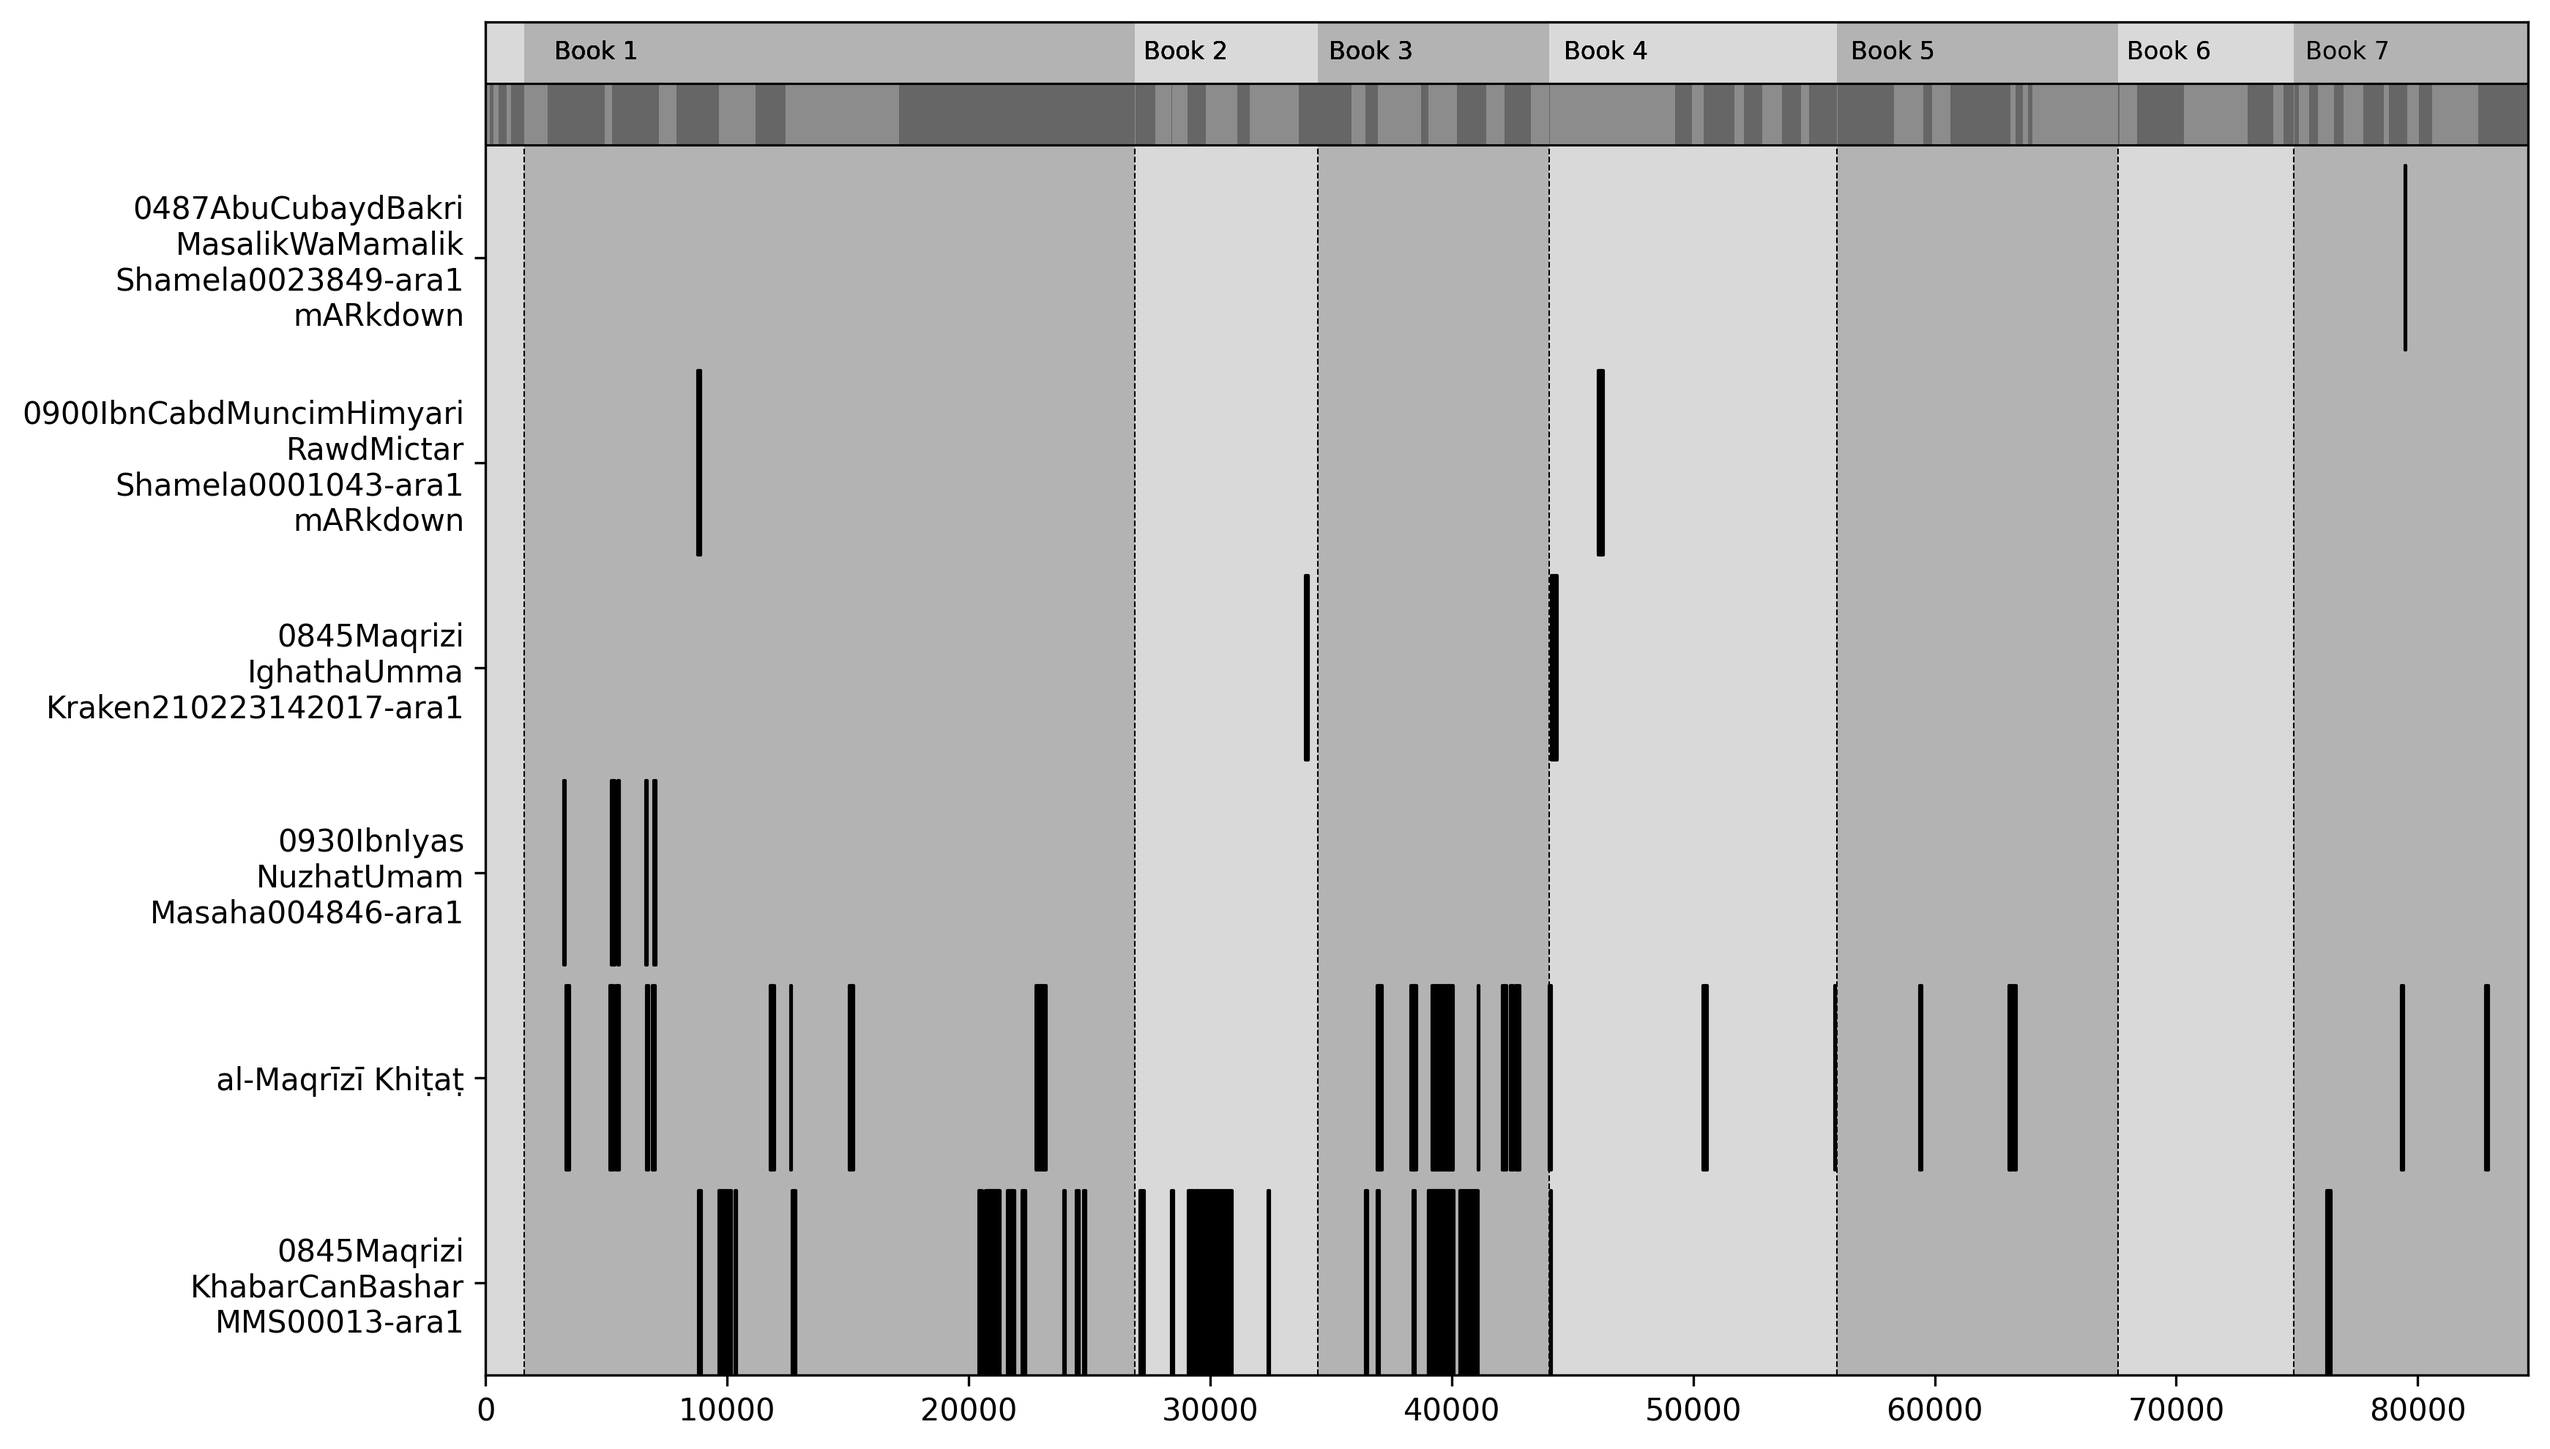
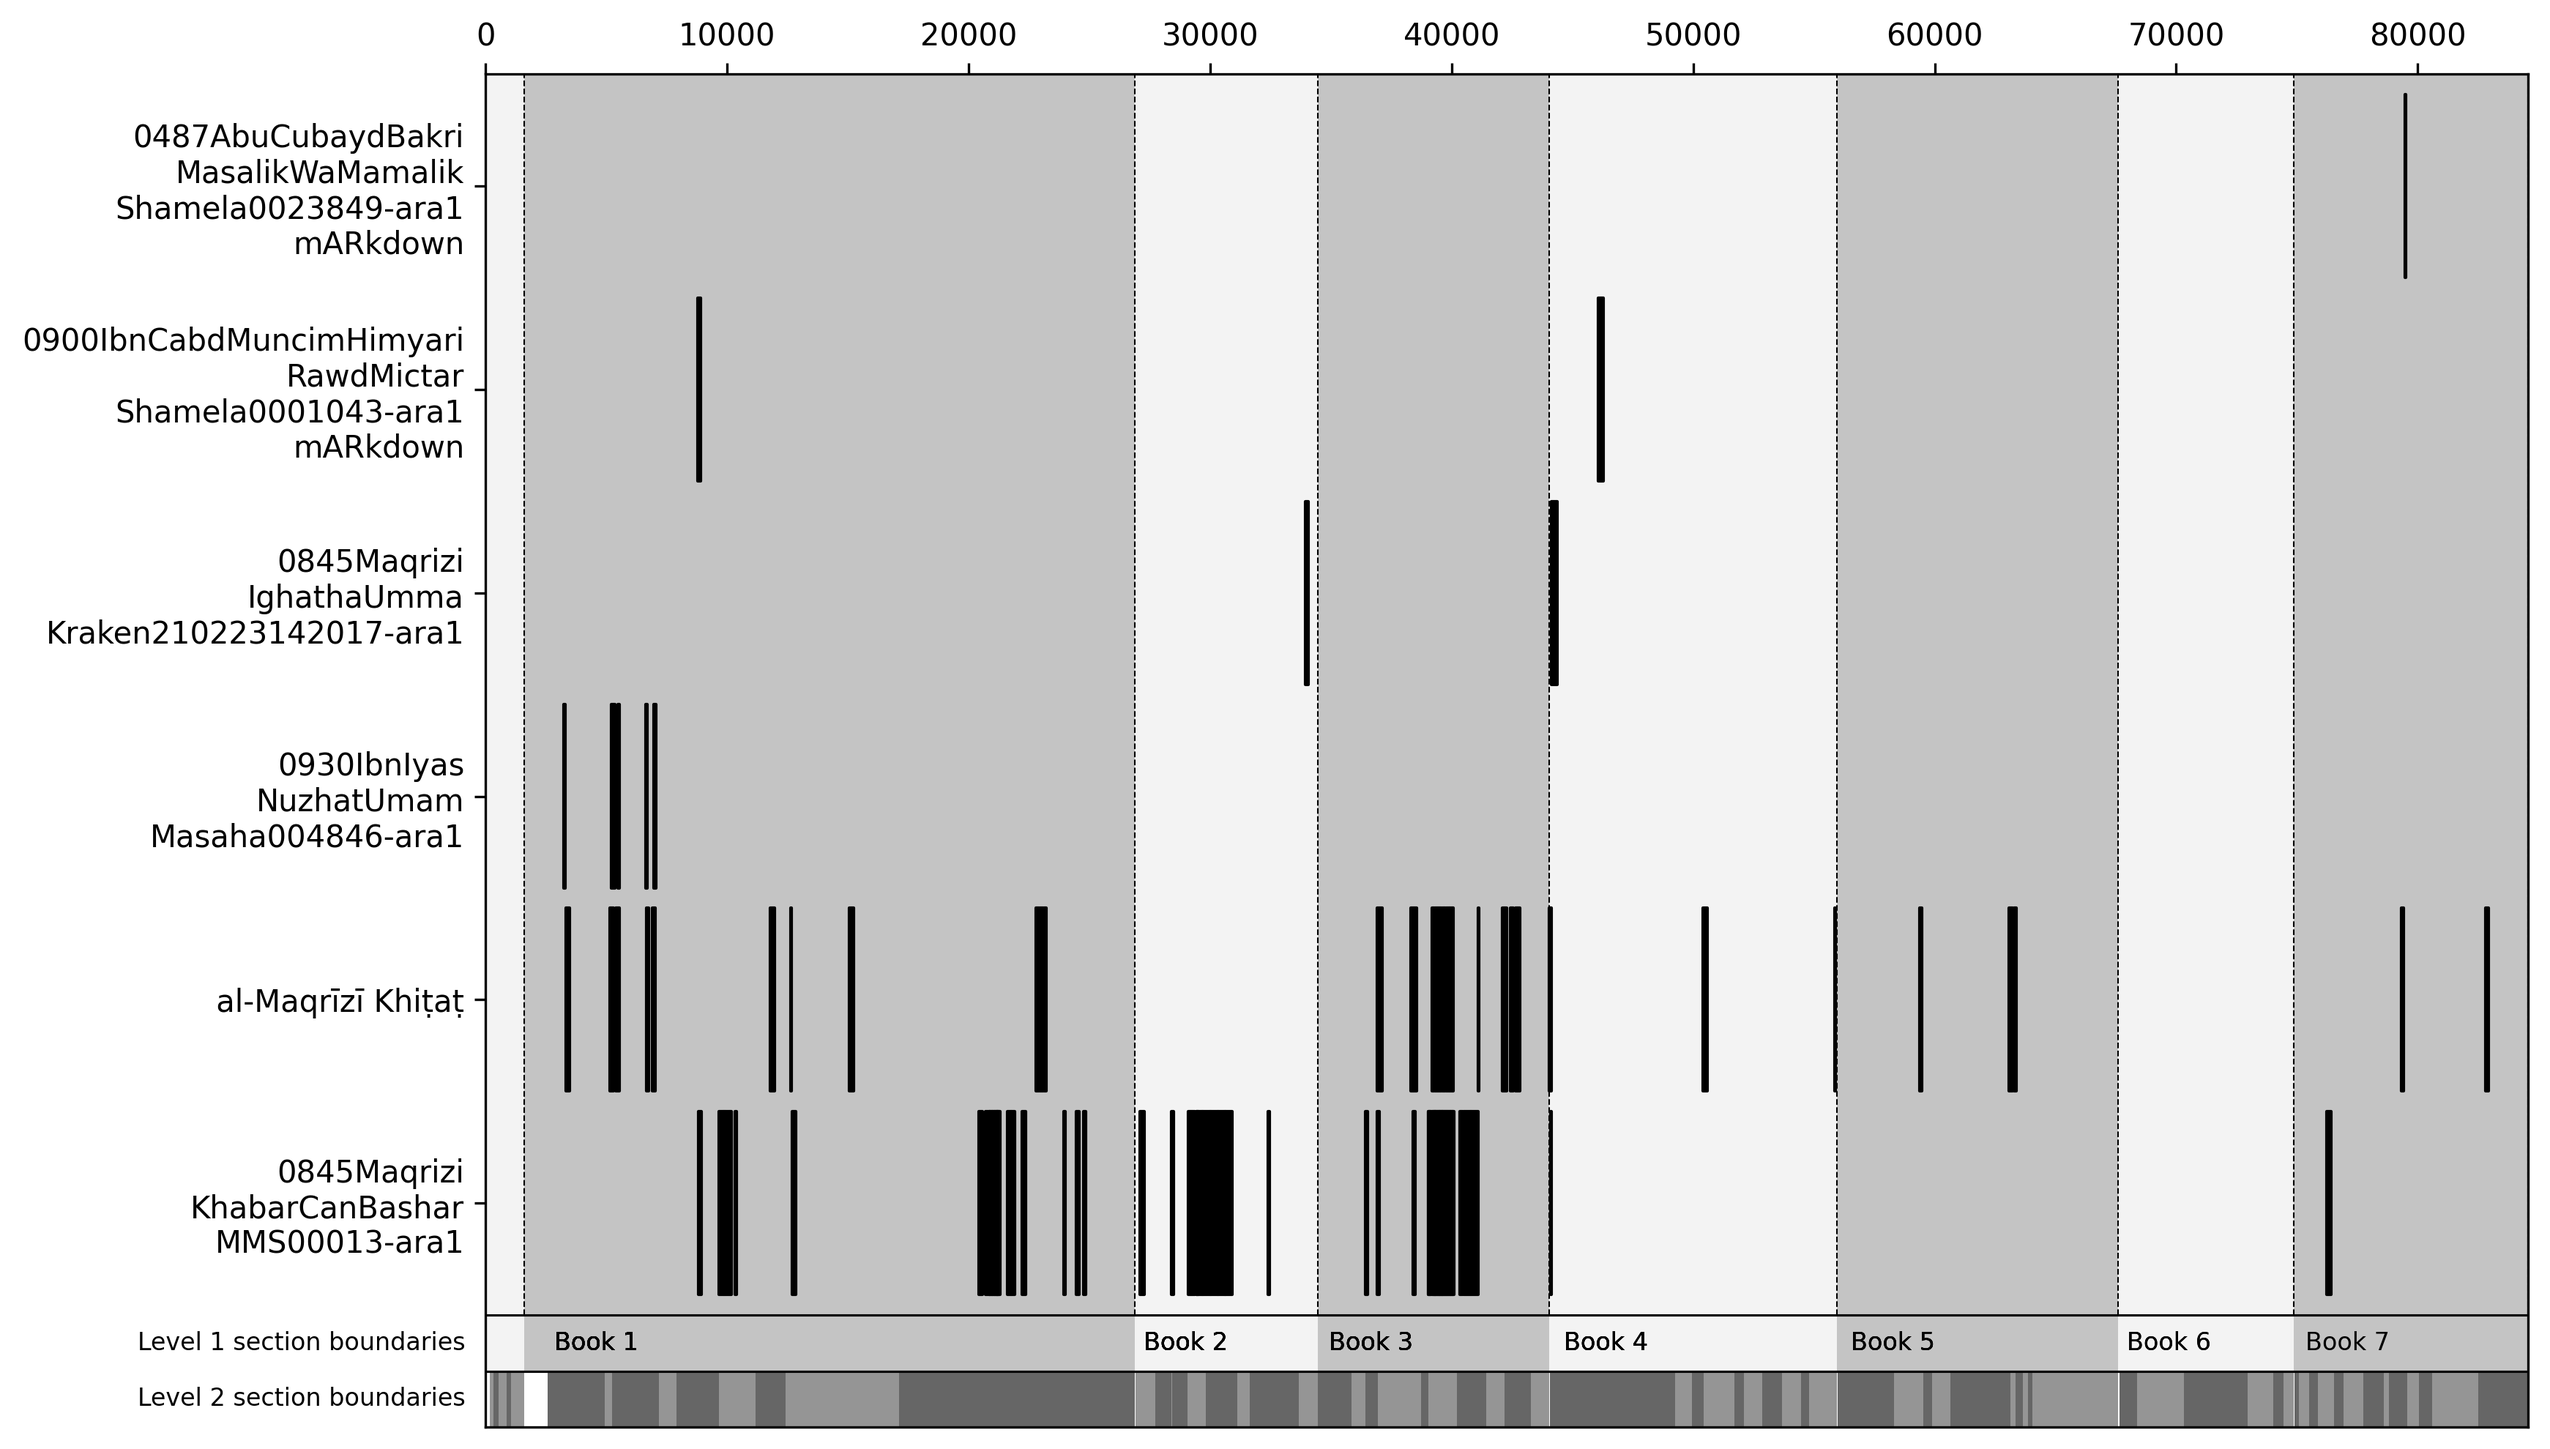
add and test section labelling

diff --git a/pairwise_data/graph_pairwise.py b/pairwise_data/graph_pairwise.py
@@ -157,7 +157,7 @@ class multireuseGraph():
         
         # Initialise starting parameters
         self.height_increase = 100/len(books)
-        v_bottom = 0
+        v_bottom = self.height_increase*row_gap
         label_pos = []
         patch_list = []
 
@@ -198,12 +198,17 @@ class multireuseGraph():
         return section_patch_height, level_count
 
     def _add_overlay_annotations(self, annotation_list, font_size=8):
-
+        
         for annotation in annotation_list:
-            self.ax.text(annotation["x"], annotation["y"], annotation["label_text"], size = font_size, va=annotation["va"]
+            if "ha" in annotation.keys():
+                self.ax.text(annotation["x"], annotation["y"], annotation["label_text"], size = font_size, va=annotation["va"],
+                    ha = annotation["ha"]
+                     )
+            else:
+                self.ax.text(annotation["x"], annotation["y"], annotation["label_text"], size = font_size, va=annotation["va"]
                      )
 
-    def _calculate_shading(self, level_count, cmap_name="binary", alternate_shades=False, low_margin=0.15, high_margin=0.4):
+    def _calculate_shading(self, level_count, cmap_name="binary", alternate_shades=False, low_margin=0.05, high_margin=0.4):
         """Create the shader that can be passed to the patch_collection for shading of sections
         and alternating the shades of each section if desired
         level_count: total number of levels in the text
@@ -275,6 +280,9 @@ class multireuseGraph():
                              .drop_duplicates(subset=["offset"])
                              .to_dict("records"))
             for idx, row in enumerate(filtered_data[:-1]):
+                # If the row is not the level being considered - we skip patch drawing and move to next one - so the levels above are only used for ends of patches
+                if row["level"] != i:
+                    continue
                 if alternate_shades:
                     selected_color = shading_index[i-1][color_pos]
                     color_pos = 1 - color_pos
@@ -309,17 +317,19 @@ class multireuseGraph():
                 if len(annotations_list) > 0:
                     self._add_overlay_annotations(annotations_list)
                          
-                # add condition for overlay annotation
-
-
-            # Line below - added vlines, but this made small sections unreadable 
+ 
             if not alternate_shades:
                 self.ax.vlines(vlines, y_pos-section_patch_height, y_pos, color='black', linewidth=0.5)
             if pos == 'top':
                 h_pos = y_pos-section_patch_height
+                label_pos = h_pos + (section_patch_height/2)
             else:
                 h_pos = y_pos
+                label_pos = h_pos - (section_patch_height/2)
             self.ax.axhline(h_pos, color='black', linewidth=0.75)
+            
+            # Add the label for the level
+            self._add_section_labelling(label_pos, level=i)
             
             patch_collection = PatchCollection(patch_list, cmap=cmap, norm=norm)
             patch_collection.set_array(patch_values)
@@ -327,7 +337,28 @@ class multireuseGraph():
             y_pos -= section_patch_height
         
         
-
+    def _add_section_labelling(self, y_pos, level=None, x_dist=0.01):
+        """
+        Add the labels for the section heirarchy
+        y_pos: location of the label on the y_axis
+        level: levels number for the annotation. If None then just add 'Section boundaries' as a label
+        x_dist: distance of label from y axis, decimal represents percentage of the x axis length - 0.1 = 10% of total x axis away from y axis
+        """
+        x_pos = 0 - self.x_max*x_dist
+        if level is None:
+            annotation = "Section boundaries"
+        else:
+            annotation = f"Level {level} section boundaries"
+        annotations = [
+            {"label_text": annotation,
+                    "y" : y_pos,
+                    "x" : x_pos,
+                    "va": "center",
+                    "ha": "right"
+                    }
+        ]
+        self._add_overlay_annotations(annotations)
+        
 
 
 
@@ -380,6 +411,8 @@ class multireuseGraph():
             # Draw a horizontal line for the start of the section labelling
             self.ax.axhline(h_line_pos, color='black')
             self.ax.vlines(x_pos, bottom, top, color='black', linewidth=0.5)
+            label_pos = (top-bottom)/2
+            self._add_section_labelling(label_pos)
 
         
         if dotted_vlines_level > 0:
@@ -391,7 +424,7 @@ class multireuseGraph():
         if extend_shades != 0:
             patch_collection = self._write_graph_patches(row_gap=self.row_gap, sort_strategy=self.sort_strategy)
 
-        # TO DO: Add labels to left of the section markers for each section (using annotation)
+        
 
         # Reset plot ylims to make the data visible - taking maximum top and bottom of the data
         self.ax.set_ylim(min([0, bottom]), max([self.ax_height, top]))
@@ -441,7 +474,7 @@ class multireuseGraph():
             end_pos = self.data_store["reuse_map"]["offset_end"].max()
         
         # To do : Add ability to use this as a way to filter based on section header range
-
+        self.x_max = end_pos
         self.ax.set_xlim(0, end_pos)
 
     def create_reuse_graph(self, sort_strategy='chron', row_gap=0.1, figsize=None):
